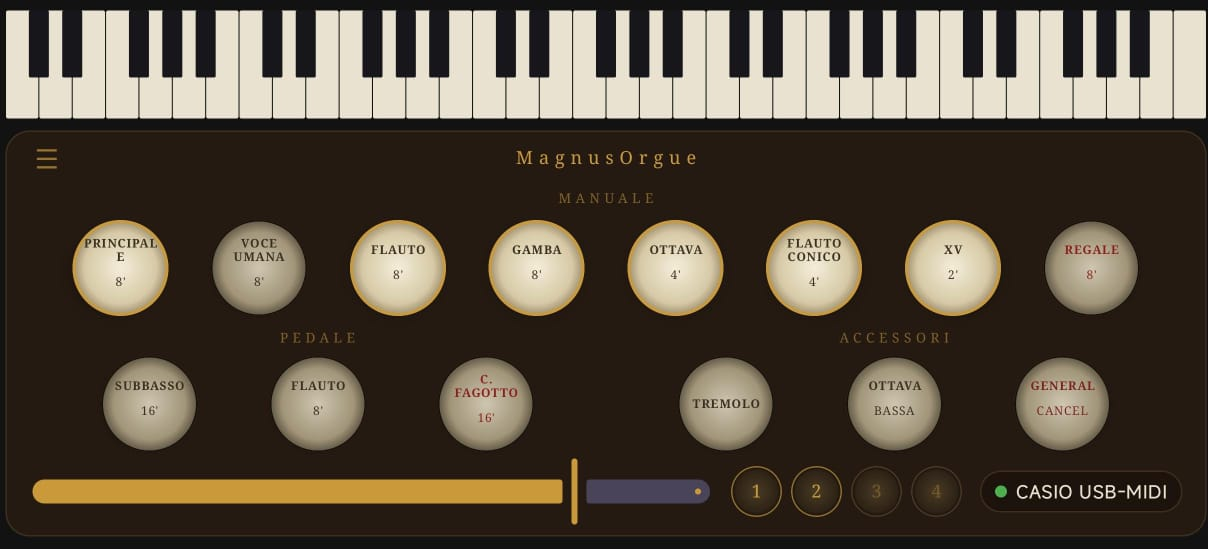
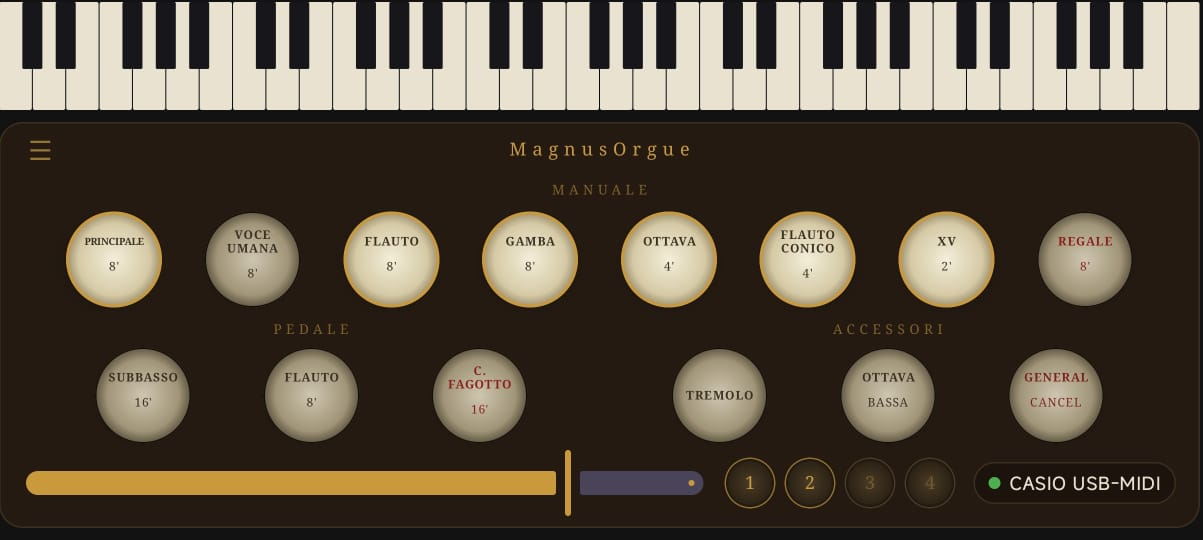
Stop splitting single words across lines on the knobs

diff --git a/app/src/main/java/com/felipeftn/magnusorgue/ui/StopsPanel.kt b/app/src/main/java/com/felipeftn/magnusorgue/ui/StopsPanel.kt
@@ -272,18 +272,19 @@ private fun StopKnob(
         contentAlignment = Alignment.Center,
     ) {
         Column(horizontalAlignment = Alignment.CenterHorizontally) {
-            // Long names ("Voce Umana", "Flauto Conico") wrap onto a second
-            // line instead of spilling over the knob's edge.
+            // Multi-word names ("Voce Umana") get one word per line — free
+            // wrapping was splitting single words mid-word ("PRINCIPAL/E",
+            // charming). Long single words shrink a notch to fit instead.
+            val longestWord = spec.title.split(' ').maxOf { it.length }
             Text(
-                text = spec.title.uppercase(),
+                text = spec.title.split(' ').joinToString("\n").uppercase(),
                 color = engraving,
                 fontFamily = FontFamily.Serif,
                 fontWeight = FontWeight.Bold,
-                fontSize = 8.sp,
-                letterSpacing = 0.5.sp,
+                fontSize = if (longestWord >= 10) 6.5.sp else 8.sp,
+                letterSpacing = if (longestWord >= 10) 0.sp else 0.5.sp,
                 textAlign = TextAlign.Center,
                 lineHeight = 9.sp,
-                modifier = Modifier.padding(horizontal = 6.dp),
             )
             if (spec.subtitle.isNotEmpty()) {
                 Text(
